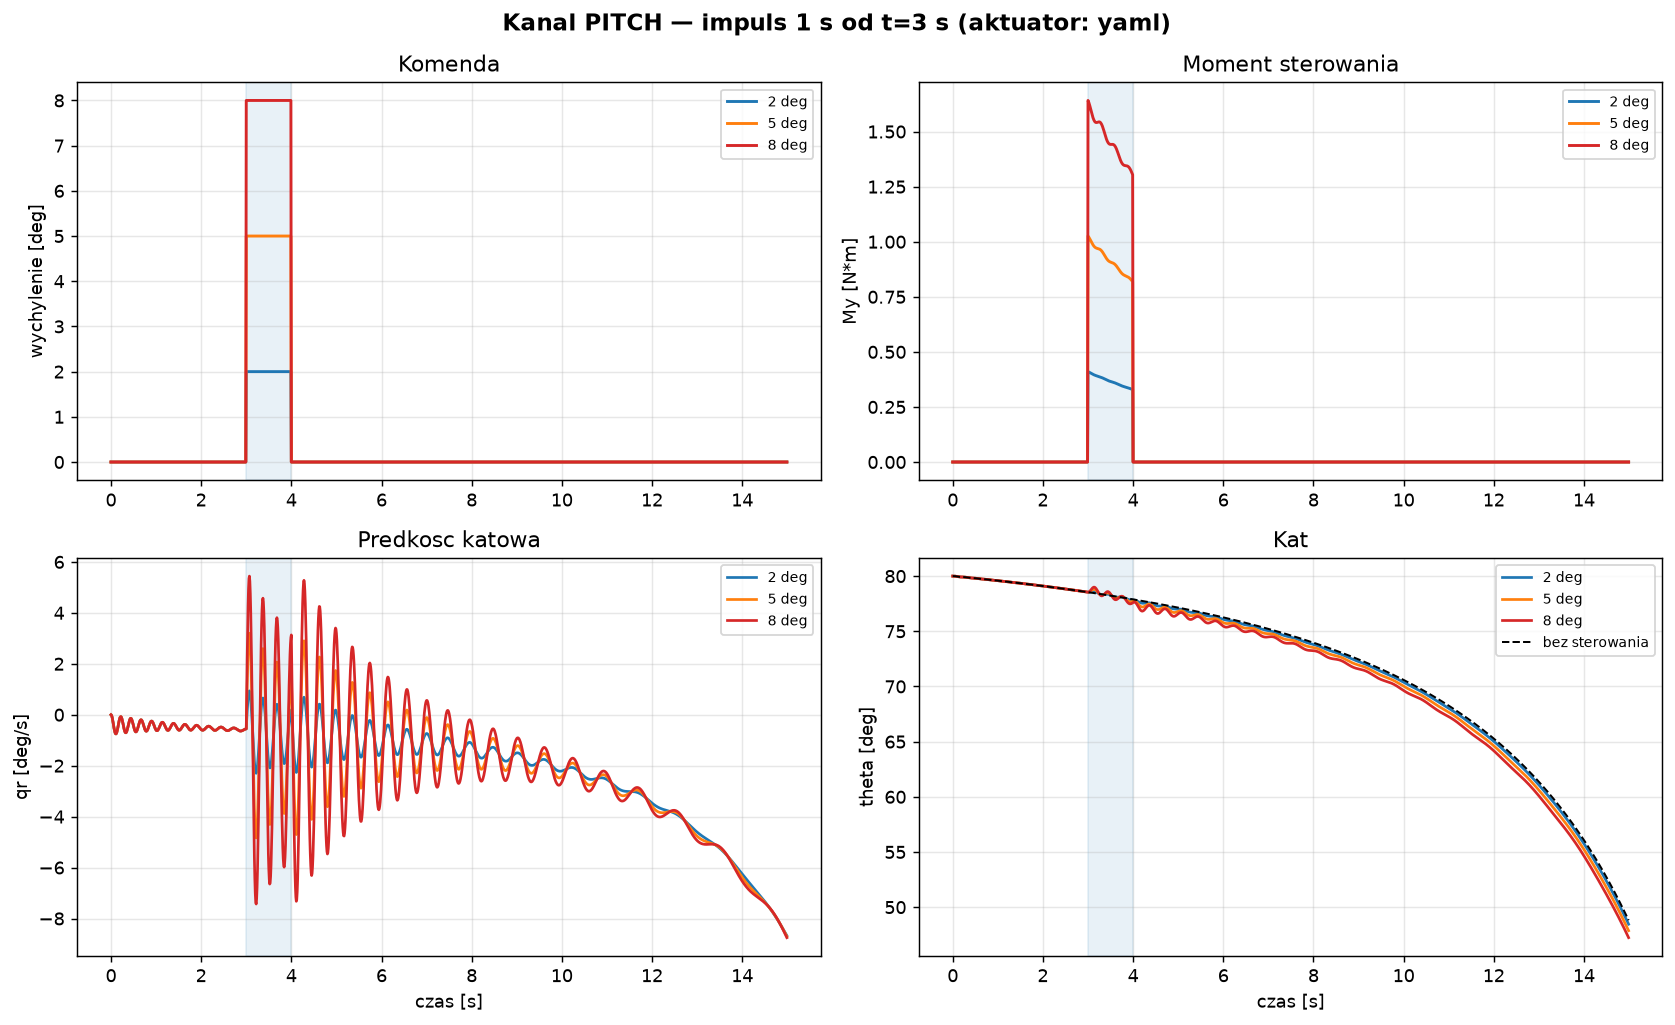
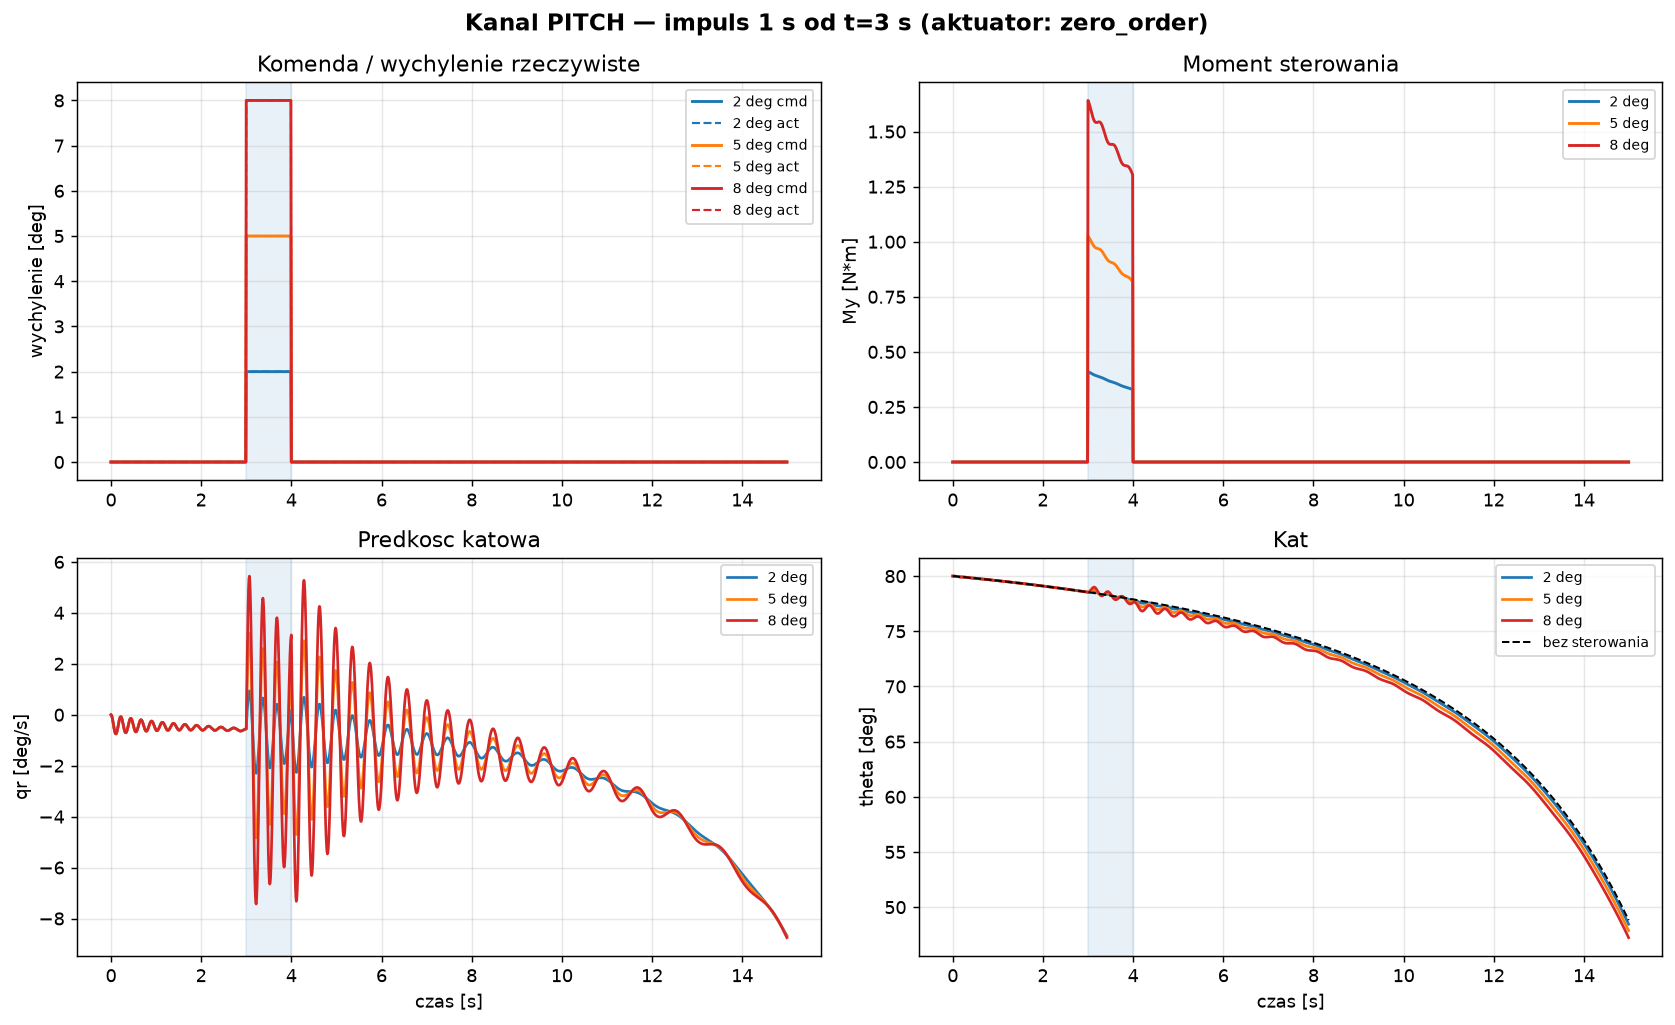
Show actual actuator deflection on command plot
The top-left subplot now shows both commanded (solid) and actual (dashed)
deflection. For zero_order they overlap; for second_order the dashed trace
shows the servo lag, overshoot, and trailing response.

Claude-Session: https://claude.ai/code/session_01QNsbYokreJmmKpoSq2s61r

Changed region(s): [[0.1552, 0.0, 0.714, 0.0937], [0.4036, 0.0937, 0.4967, 0.2185]]

diff --git a/FlightSim/plot_control_channels.py b/FlightSim/plot_control_channels.py
@@ -87,7 +87,33 @@ def run_case(table, geom, channel, amp, actuator=None):
     act = actuator if actuator is not None else PassthroughActuator()
     cs = ControlSystem(StepCommander(T_STEP, amp, channel, duration_s=T_DUR),
                        act, [eff])
-    return fly_demo(cs, t_max=T_MAX)
+    return fly_demo(cs, t_max=T_MAX), act
+
+
+def actual_deflection_history(t_arr, channel, amp, actuator):
+    """Rzeczywiste wychylenie aktuatora wzdluz osi czasu (symulacja ODE)."""
+    from control.types import ControlCommand, FlightState
+    u_idx = CHANNELS[channel][4]
+    cmd_fn = StepCommander(T_STEP, amp, channel, duration_s=T_DUR)
+
+    if actuator.n_states == 0:
+        out = np.zeros(len(t_arr))
+        for i, t in enumerate(t_arr):
+            fs = FlightState(t=t)
+            cmd = cmd_fn.command(fs)
+            out[i] = float(cmd.u[u_idx])
+        return out
+
+    xa = actuator.initial_state().copy()
+    out = np.zeros(len(t_arr))
+    for i, t in enumerate(t_arr):
+        fs = FlightState(t=t)
+        cmd = cmd_fn.command(fs)
+        out[i] = float(actuator.output(cmd, fs, xa)[u_idx])
+        dt = (t_arr[i + 1] - t) if i + 1 < len(t_arr) else 0.01
+        dxa = actuator.derivatives(cmd, fs, xa)
+        xa = xa + dxa * dt
+    return out
 
 
 def moment_history(table, geom, res, channel, amp):
@@ -158,22 +184,21 @@ def main():
         rows = []
 
         for amp, col in zip(AMPS, colors):
-            res = run_case(table, geom, channel, amp, actuator)
+            res, _act = run_case(table, geom, channel, amp, actuator)
             mom = moment_history(table, geom, res, channel, amp)
             rate = np.degrees(getattr(res, rate_at))
             ang = unwrap_deg(getattr(res, ang_at))
             ang_off = unwrap_deg(getattr(r_off, ang_at))
-            # Predkosc katowa MUSI byc liczona jako roznica wzgledem przebiegu
-            # bez sterowania. W kanale pitch tlo (zakret grawitacyjny) to ~9 deg/s
-            # i przy malych wychyleniach calkowicie zaslania odpowiedz na komende,
-            # przez co pitch wygladal na 4x mniej skuteczny niz yaw, gdzie tlo
-            # jest zerowe. To byl artefakt metryki, nie asymetria modelu.
             d_rate = rate - np.interp(res.t, r_off.t,
                                       np.degrees(getattr(r_off, rate_at)))
 
-            ax[0, 0].plot(res.t, np.where((res.t >= T_STEP) &
-                                          (res.t < T_STEP + T_DUR), amp, 0.0),
-                          color=col, lw=1.6, label=f"{amp:.0f} deg")
+            cmd_trace = np.where((res.t >= T_STEP) &
+                                 (res.t < T_STEP + T_DUR), amp, 0.0)
+            ax[0, 0].plot(res.t, cmd_trace,
+                          color=col, lw=1.6, label=f"{amp:.0f} deg cmd")
+            act_trace = actual_deflection_history(res.t, channel, amp, actuator)
+            ax[0, 0].plot(res.t, act_trace,
+                          color=col, lw=1.2, ls="--", label=f"{amp:.0f} deg act")
             ax[0, 1].plot(res.t, mom, color=col, lw=1.6, label=f"{amp:.0f} deg")
             ax[1, 0].plot(res.t, rate, color=col, lw=1.5, label=f"{amp:.0f} deg")
             ax[1, 1].plot(res.t, ang, color=col, lw=1.5, label=f"{amp:.0f} deg")
@@ -188,7 +213,7 @@ def main():
         for a in ax.ravel():
             a.axvspan(T_STEP, T_STEP + T_DUR, color="tab:blue", alpha=0.10)
             a.grid(alpha=0.3); a.legend(fontsize=8)
-        ax[0, 0].set_ylabel("wychylenie [deg]"); ax[0, 0].set_title("Komenda")
+        ax[0, 0].set_ylabel("wychylenie [deg]"); ax[0, 0].set_title("Komenda / wychylenie rzeczywiste")
         ax[0, 1].set_ylabel(f"{mom_lbl} [N*m]"); ax[0, 1].set_title("Moment sterowania")
         ax[1, 0].set_ylabel(f"{rate_at} [deg/s]"); ax[1, 0].set_xlabel("czas [s]")
         ax[1, 0].set_title("Predkosc katowa")
